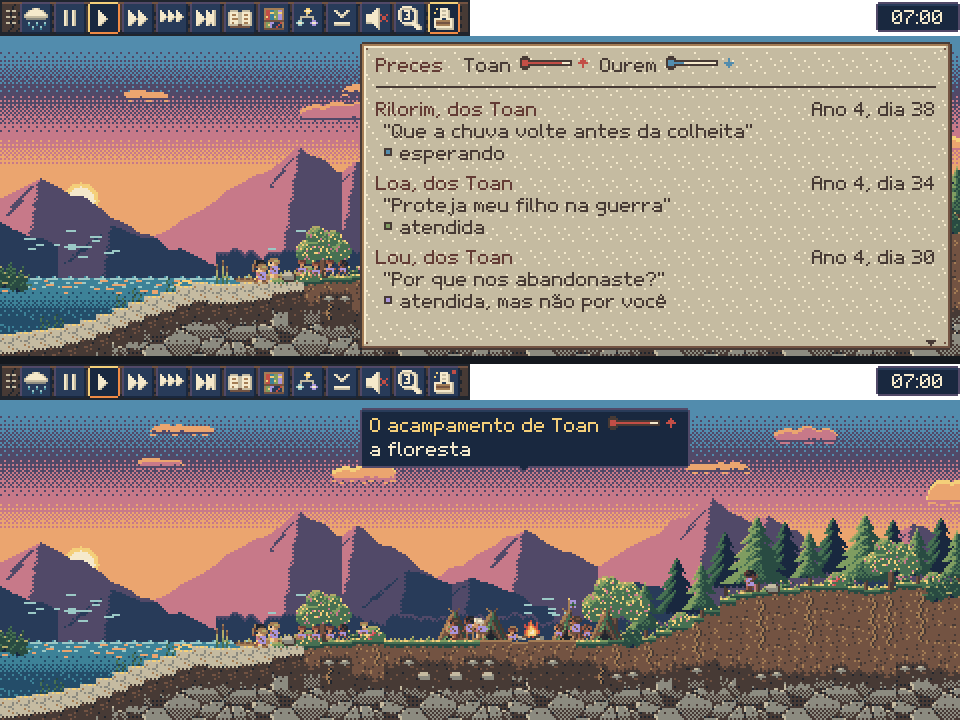
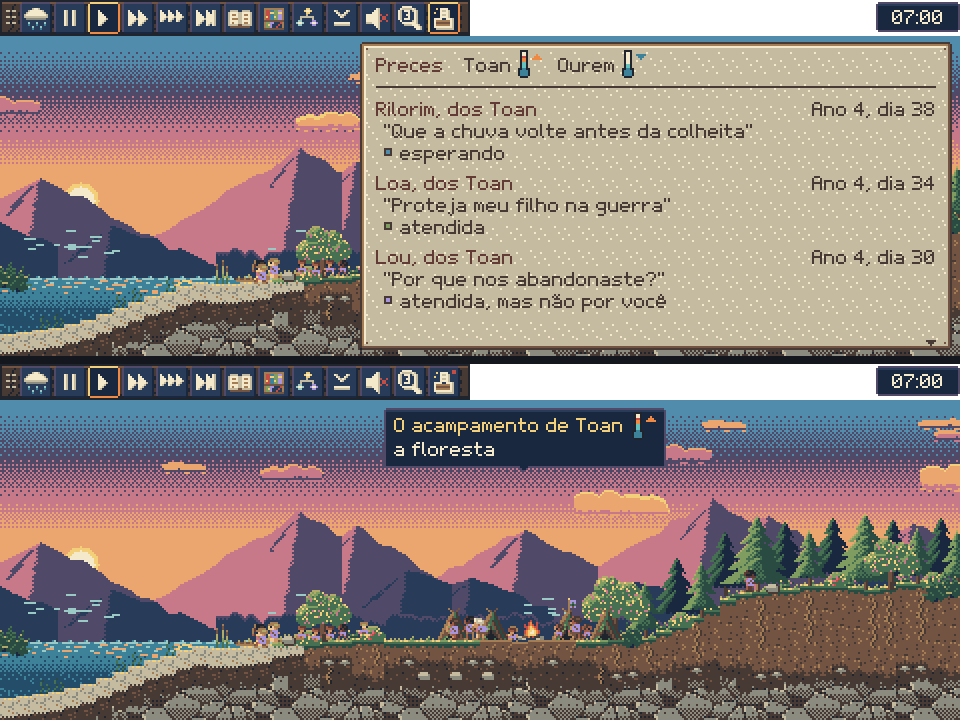
Termômetro de fé com as peças da C (8c3d332): tubo, cheio recortado de 9 - round(fé × 8) até 13 (bulbo sempre cheio), seta sobe/desce em (x + 7, y + 1), sem seta quando parada; na caixa e na dica da vila; testar_preces 11/11

diff --git a/jogo/RELATORIO.md b/jogo/RELATORIO.md
@@ -7,7 +7,7 @@ Tarefas 1 a 5 do briefing `sessoes/fase1-b-apresentacao.md`. Este relatório cob
 - **O botão:** fica na alça, logo depois da lupa, com o ícone da C (`caixa_preces`, copiado da pasta de trabalho dela antes do commit: quando ela commitar, o `sincronizar_arte.py` iguala as cópias). Quando chega prece nova desde a última abertura, o ícone mostra o ponto (`caixa_preces_nova`). A tecla P também abre a caixa.
 - **A leitura:** ao abrir, a moldura guarda no moldura.cfg ([preces] lida) a semente, o passo e o último evento. Num mundo de outra semente, tudo o que houver conta como novo.
 - **A caixa (`apresentacao/preces_tela.gd`):** um pergaminho de 296 × 154 à direita, que deixa a metade esquerda do mundo à vista.
-  - No topo, cada povo que reza tem um termômetro sem número. A cor diz o nível (azul frio, laranja morno, vermelho forte), e a seta diz se a fé esquenta ou esfria (um traço quando está parada).
+  - No topo, cada povo que reza tem um termômetro sem número, com as peças da C (termometro_fe_tubo, cheio, sobe e desce; LEIA-ME das peças, seção 6). A altura do cheio diz o nível, e o bulbo fica sempre cheio. A seta diz se a fé esquenta ou esfria, e some quando a fé está parada.
   - Embaixo, as preces, da mais nova para a mais antiga. Cada uma mostra quem pediu e o povo, o "Ano X, dia Y", as palavras (até duas linhas) e o estado com um ponto colorido: esperando, atendida, "atendida, mas não por você" ou sem resposta.
   - A roda e as setas rolam a lista.
   - Esc, o botão direito ou um clique fora fecham a caixa.
